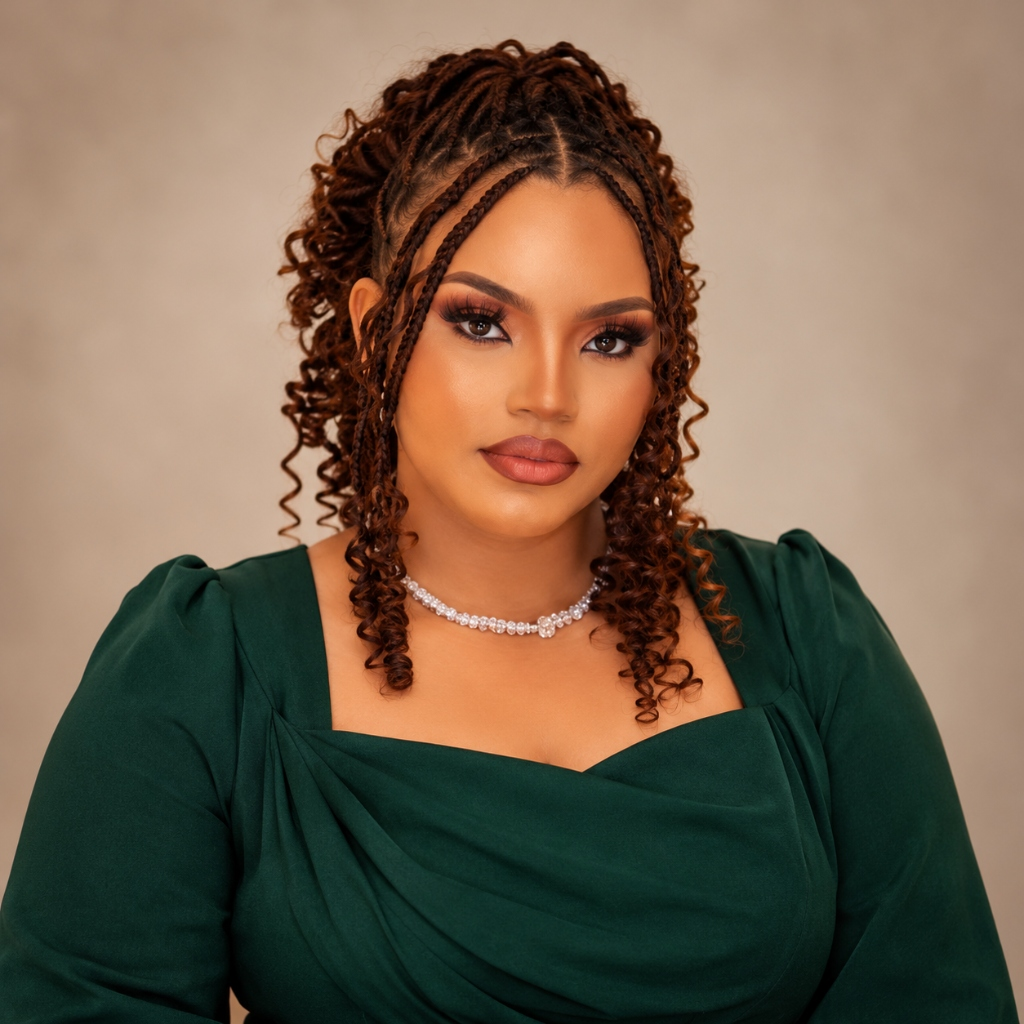
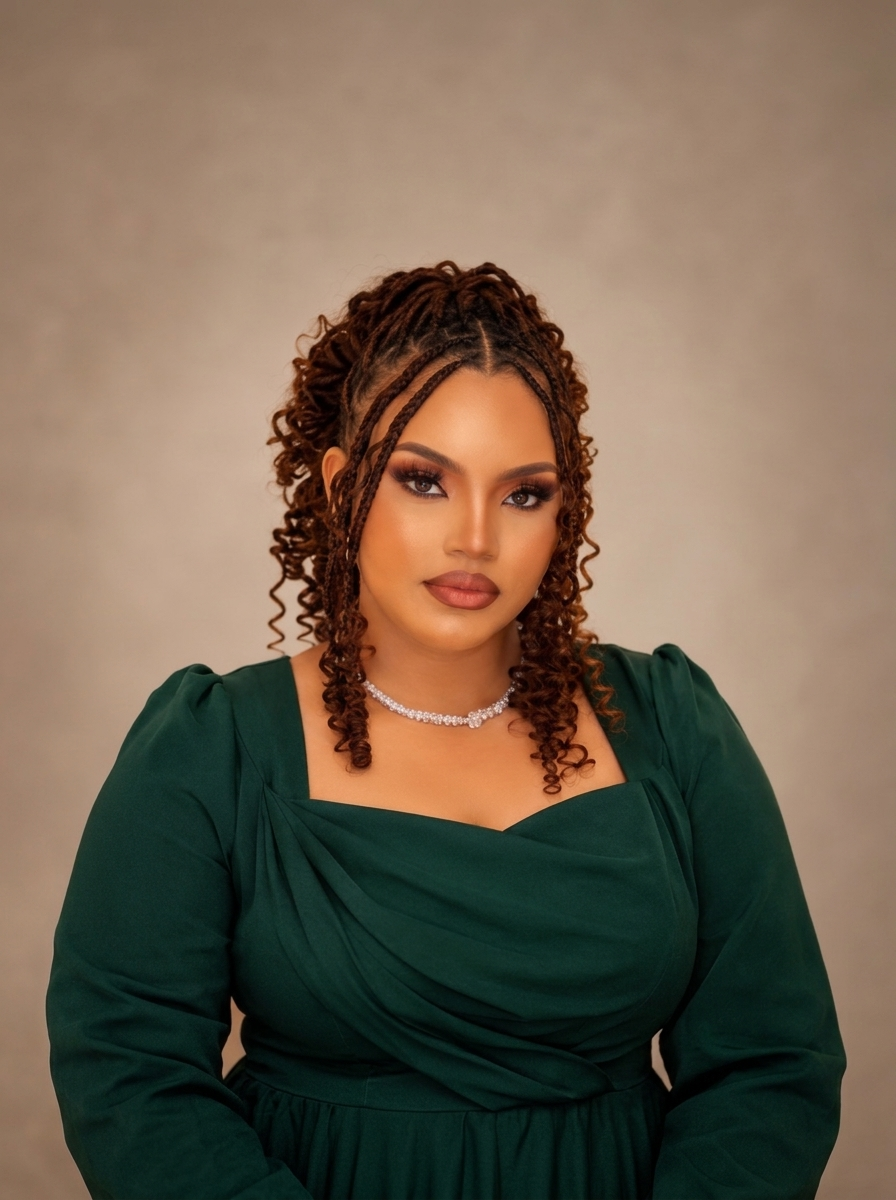
fix(founder): zoom out portrait with generous headroom and proper framing on about page

diff --git a/app/about/page.tsx b/app/about/page.tsx
@@ -101,13 +101,14 @@ export default function AboutPage() {
       <section className="max-w-7xl mx-auto px-4 sm:px-6 lg:px-8 py-16 sm:py-24">
         <div className="border border-[#e5dcd0] bg-white grid grid-cols-1 lg:grid-cols-12 overflow-hidden">
           {/* Founder Image */}
-          <div className="lg:col-span-5 relative min-h-[420px] lg:min-h-full border-b lg:border-b-0 lg:border-r border-[#e5dcd0] bg-[#faf6f0]">
+          <div className="lg:col-span-5 relative aspect-[4/5] sm:aspect-[3/4] lg:aspect-auto min-h-[460px] lg:min-h-full border-b lg:border-b-0 lg:border-r border-[#e5dcd0] bg-[#faf6f0]">
             <Image
               src="/images/mary-founder.jpg"
               alt="Mary Asuquo, Biochemist & Founder of Empress Glow Emporium"
               fill
               sizes="(max-width: 1024px) 100vw, 42vw"
-              className="object-cover object-center"
+              className="object-cover object-[center_15%]"
+              priority
             />
             <div className="absolute bottom-6 left-6 bg-[#131010]/90 text-[#f7f1e8] font-mono text-[10px] uppercase tracking-[0.2em] px-4 py-2 border border-white/10 backdrop-blur-sm">
               Mary Asuquo • Biochemist & Founder

diff --git a/components/ui/whatsapp-float.tsx b/components/ui/whatsapp-float.tsx
@@ -23,7 +23,7 @@ export function WhatsAppFloat() {
                   alt="Mary Asuquo"
                   fill
                   sizes="40px"
-                  className="object-cover object-top"
+                  className="object-cover object-[center_18%]"
                 />
               </div>
               <div>
